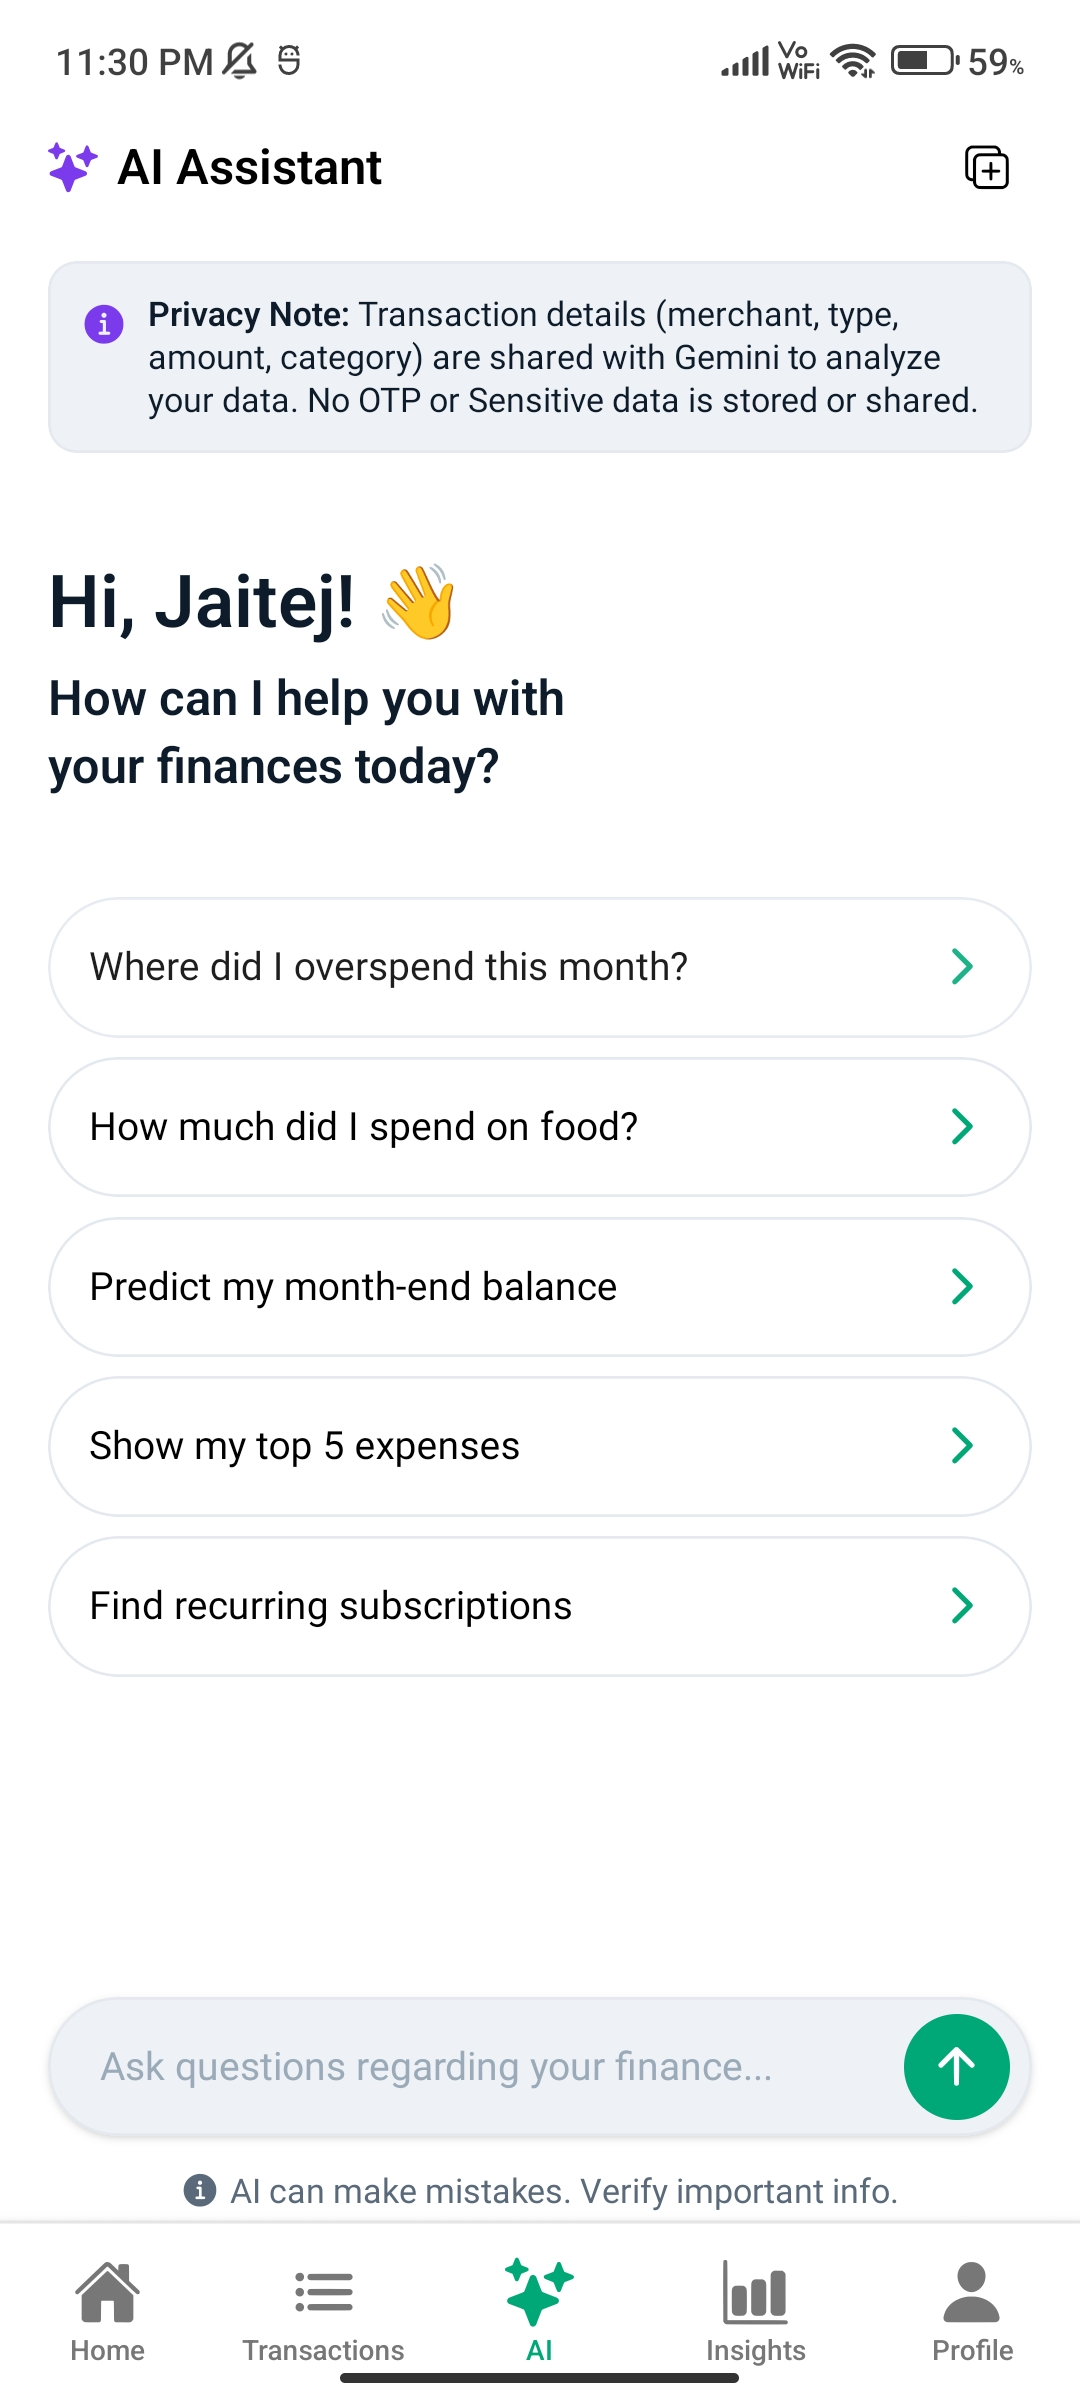
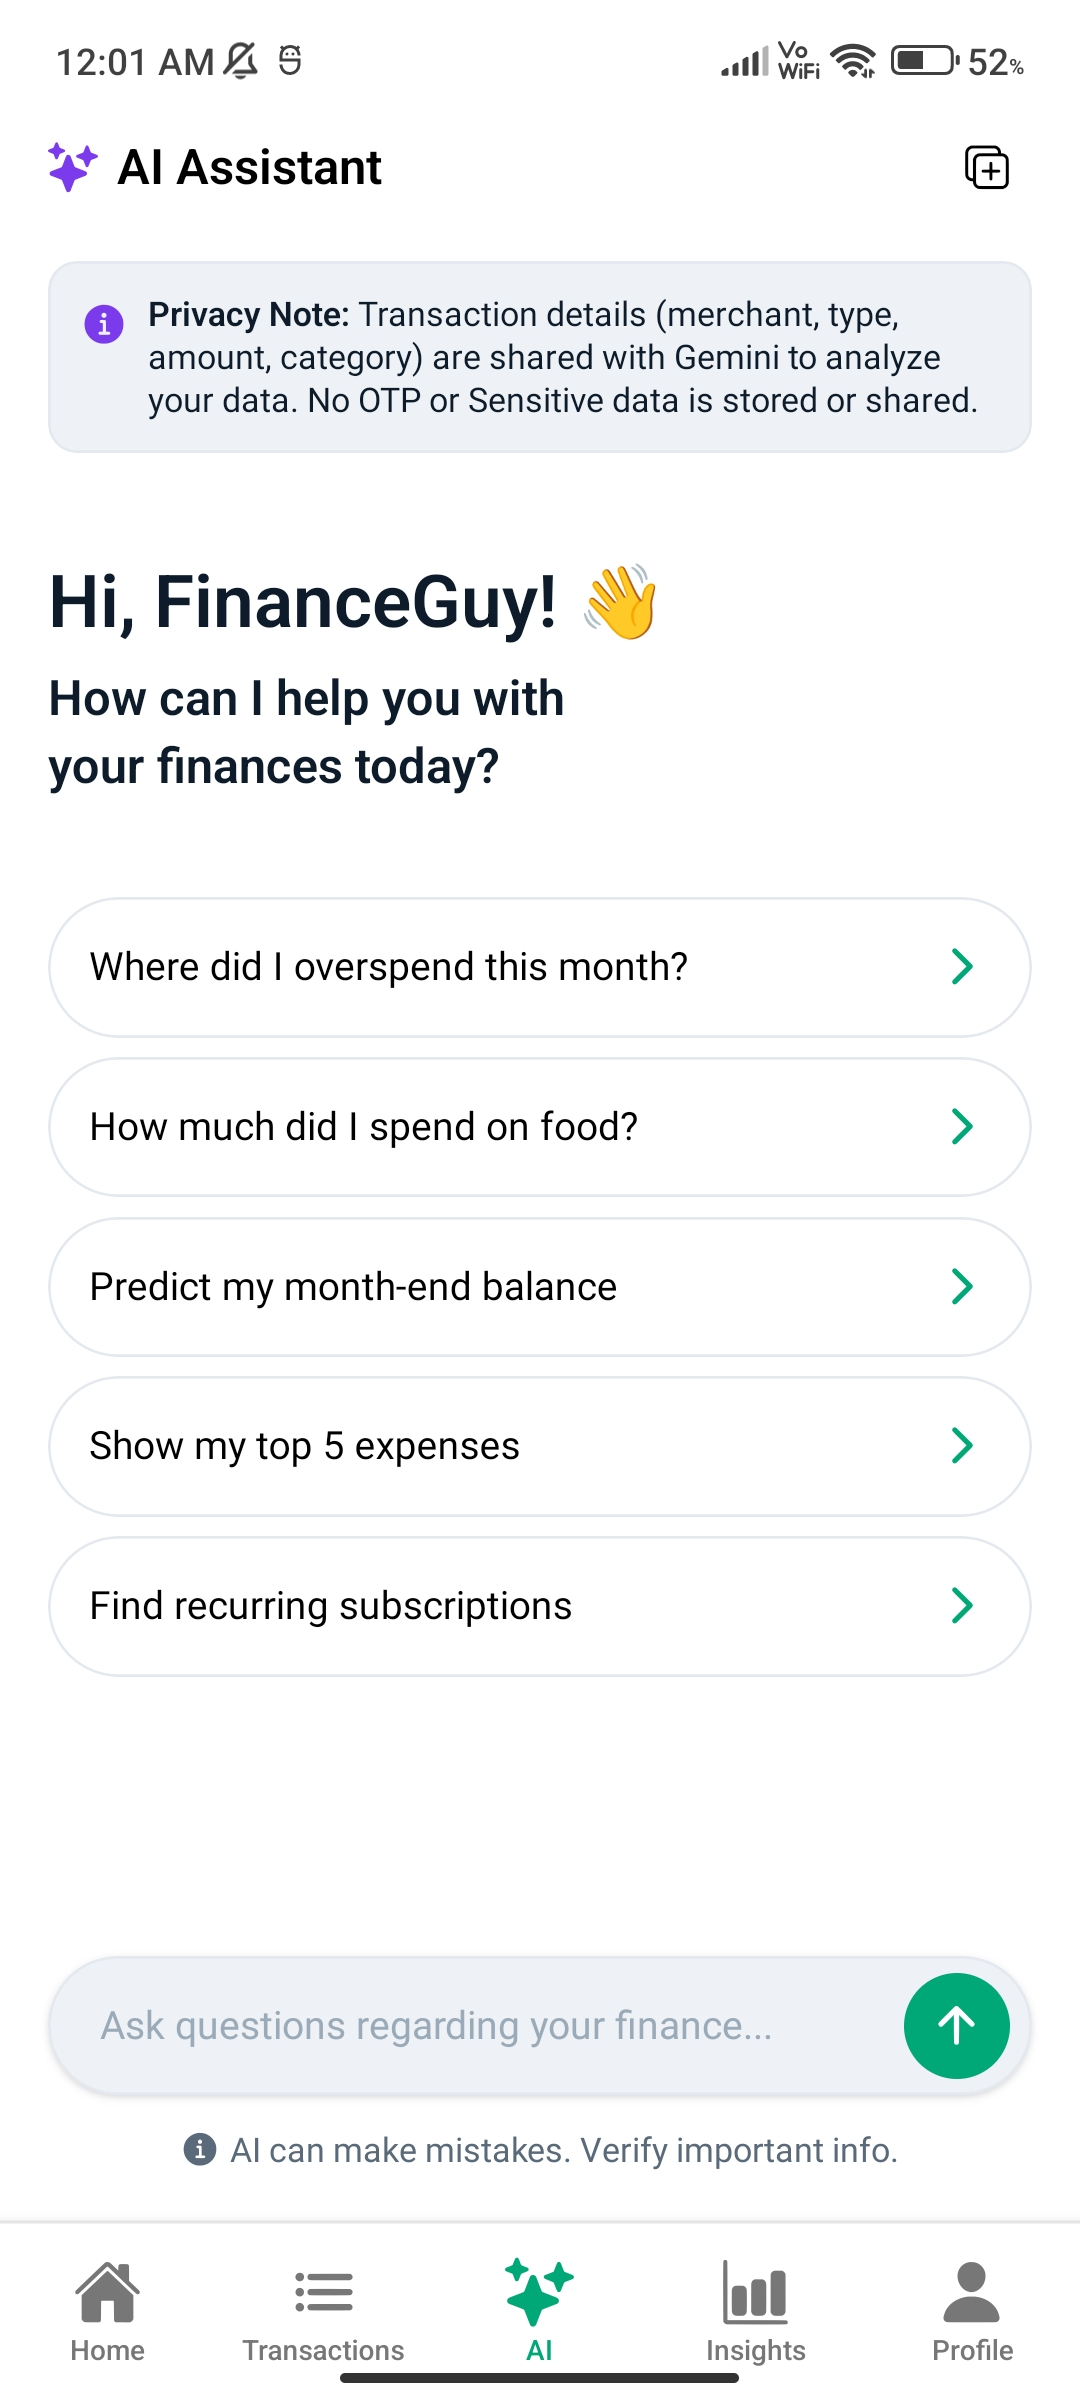
minor Fixes

diff --git a/src/app/(tabs)/aiassist.tsx b/src/app/(tabs)/aiassist.tsx
@@ -1,3 +1,4 @@
+import { useAuth } from "@/context/AuthContext";
 import { useTransaction } from "@/context/FinanceContext";
 import { getFinanceAIResponse } from "@/libs/gemini/geminiService";
 import { Ionicons } from "@expo/vector-icons";
@@ -108,6 +109,7 @@ export default function Aiassist() {
   const [chat, setChat] = useState<Message[]>([]);
   const scrollViewRef = useRef<ScrollView>(null);
 
+  const { user } = useAuth();
   const { transactions } = useTransaction();
 
   const handleSend = async (customMessage?: string) => {
@@ -201,7 +203,7 @@ export default function Aiassist() {
             ) : (
               <View className="flex-1 justify-center mt-10 px-5">
                 <Text className="text-content-main text-3xl font-semibold">
-                  Hi, Jaitej! 👋
+                  Hi, {user?.name}! 👋
                 </Text>
 
                 <Text className="text-content-main text-xl font-semibold max-w-62.5 mt-2 mb-10">
